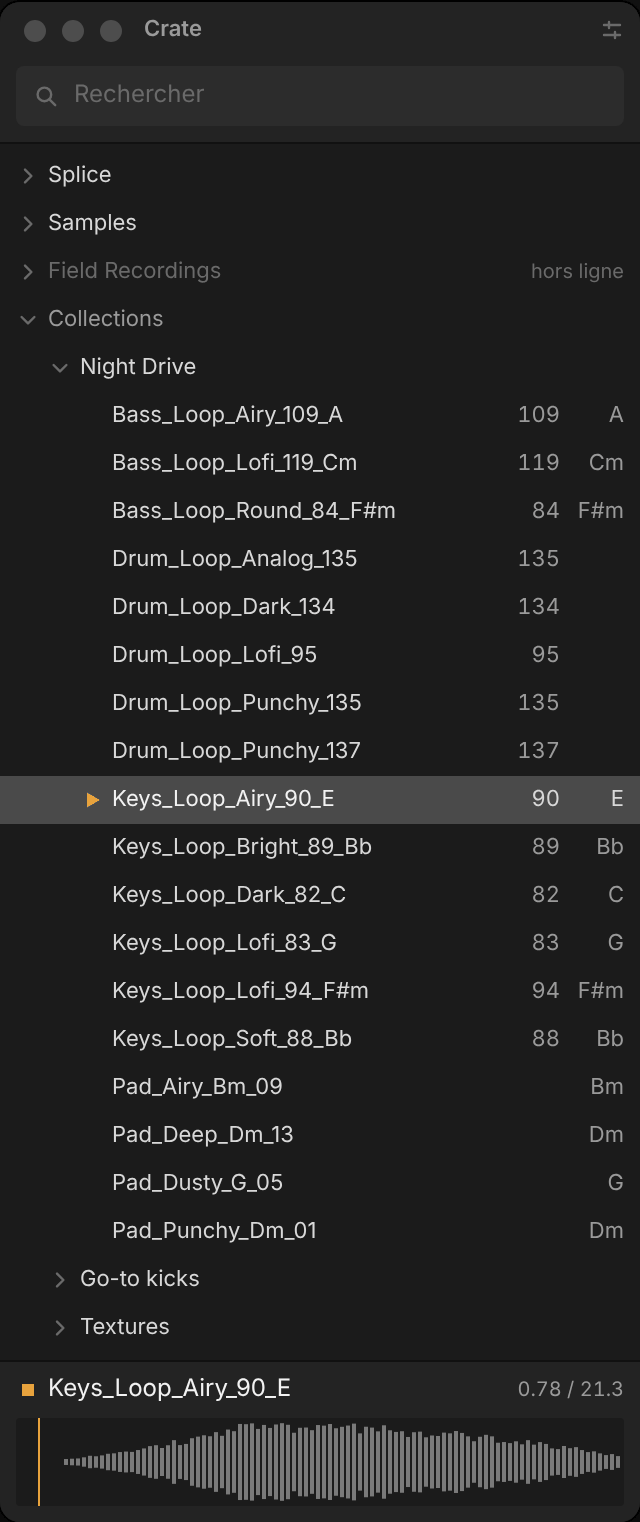
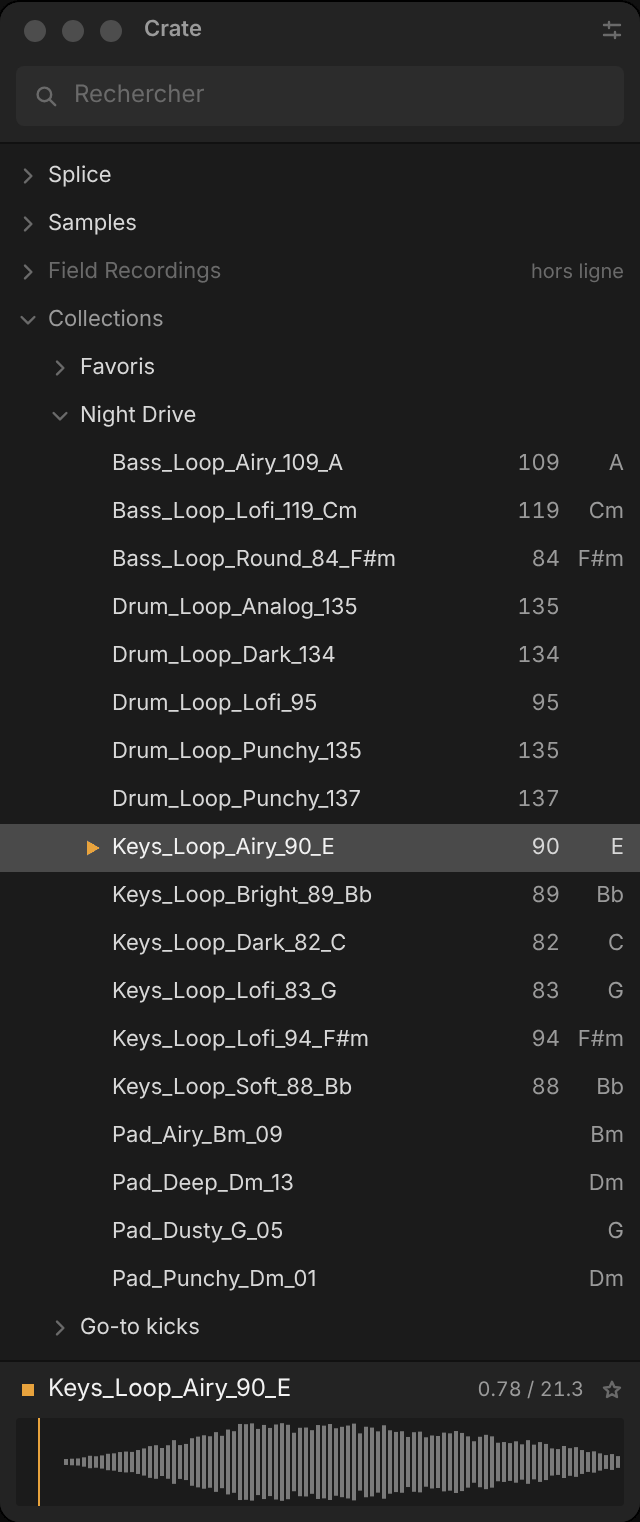
Favoris discrets et plan / prompt mis à jour (v2)
- Favoris de retour sans étoile dans l'arbre : dossier « Favoris » en tête
  des collections, ⌘D, menu contextuel, étoile grise dans le tiroir,
  filtre is:fav, dépôt sur « Favoris »
- Contrat Backend : Sample.fav, setFavorite, nœud "c:fav"
- docs/plan.md : plan à jour (phase 0 faite, une seule vue, contrat tree(),
  budgets de l'arbre) et prompt des phases 1 à 6 réécrit pour un agent
  isolé (décisions dans docs/decisions.md, contrôles avant commit)

Claude-Session: https://claude.ai/code/session_01TPaLJq8a1d4maHTAR6REF2

diff --git a/src/state/app.ts b/src/state/app.ts
@@ -76,6 +76,10 @@ function createAppState() {
     batch(() => {
       setRows(page.rows);
       setMatches(page.matches);
+      // Le tiroir garde le sample courant à jour (favori, tags) s'il est encore visible.
+      const cur = current();
+      const fresh = cur && page.rows.find((r) => r.type === "sample" && r.sample.id === cur.id);
+      if (fresh && fresh.type === "sample") setCurrent(fresh.sample);
     });
   }
 
@@ -276,6 +280,14 @@ function createAppState() {
     await Promise.all([refresh(), reloadLibrary()]);
   }
 
+  // --- favoris : bascule sur la sélection (tous favoris → on retire, sinon on ajoute)
+  async function toggleFavorite(samples = selectedSamples()) {
+    if (!samples.length) return;
+    const all = samples.every((s) => s.fav);
+    await api.setFavorite(samples.map((s) => s.id), !all);
+    await refresh();
+  }
+
   // --- collections
   function openSaveSearch() {
     if (!searchLine()) return;
@@ -325,7 +337,8 @@ function createAppState() {
       setDraggingKey(null);
     });
     if (!ids.length) return;
-    await api.addToCollection(+key.slice(2), ids);
+    if (key === "c:fav") await api.setFavorite(ids, true);
+    else await api.addToCollection(+key.slice(2), ids);
     await refresh();
   }
 
@@ -345,7 +358,7 @@ function createAppState() {
   return {
     view, setView, tagging, setTagging, saving, setSaving, menu, setMenu, renamingKey, setRenamingKey,
     sources, alwaysOnTop, setAlwaysOnTop, themePref, selectedSamples, closeOverlays, openTagging, toggleTag,
-    openSaveSearch, saveSearch, newCollection, renameCollection, deleteCollection, dropOnCollection, removeSource, openMenu,
+    toggleFavorite, openSaveSearch, saveSearch, newCollection, renameCollection, deleteCollection, dropOnCollection, removeSource, openMenu,
     library, rows, visible, matches, chips, draft, expanded, cursor, selection, current, playingId, progress,
     autoPlay, listFocused, dropTarget, draggingKey, empty, scan, theme, width, density, grid, queryLine, searching,
     setAutoPlay, setListFocused, setDropTarget, setDraggingKey, setEmpty, setScan, setVisibleLimit, setTheme,

diff --git a/src/api/mock.ts b/src/api/mock.ts
@@ -45,6 +45,7 @@ function matchToken(s: Sample, t: QueryToken): boolean {
         case "type":
           return s.kind === (t.value === "one-shot" ? "oneshot" : t.value);
         case "is":
+          if (t.value === "fav") return s.fav;
           return t.value === "untagged" ? s.tags.length === 0 : false;
         case "in": {
           const v = t.value.toLowerCase();
@@ -91,7 +92,10 @@ function childNodes(key: NodeKey | null): NodeInfo[] {
   const folderInfo = (f: FolderNode): NodeInfo => ({ key: `f:${f.id}`, name: f.name, kind: "folder", offline: f.offline });
   if (key === null) return [...SOURCES.map(folderInfo), { key: "g:collections", name: "Collections", kind: "group" }];
   if (key === "g:collections")
-    return COLLECTIONS.map((c) => ({ key: `c:${c.id}`, name: c.name, kind: c.kind === "smart" ? "smart" : "collection" }));
+    return [
+      { key: "c:fav", name: "Favoris", kind: "favorites" },
+      ...COLLECTIONS.map((c): NodeInfo => ({ key: `c:${c.id}`, name: c.name, kind: c.kind === "smart" ? "smart" : "collection" })),
+    ];
   if (key.startsWith("f:")) return folders.get(+key.slice(2))?.children.map(folderInfo) ?? [];
   return [];
 }
@@ -101,6 +105,7 @@ function childSamples(key: NodeKey): Sample[] {
     const id = +key.slice(2);
     return SAMPLES.filter((s) => s.folderId === id).sort(byName);
   }
+  if (key === "c:fav") return SAMPLES.filter((s) => s.fav).sort(byName);
   if (key.startsWith("c:")) return collectionSamples(+key.slice(2)).sort(byName);
   return [];
 }
@@ -153,6 +158,13 @@ export const mockBackend: Backend = {
       totalRows: rows.length,
       matches: searching ? SAMPLES.filter(match).length : SAMPLES.length,
     };
+  },
+
+  async setFavorite(ids, fav) {
+    for (const id of ids) {
+      const s = byId.get(id);
+      if (s) s.fav = fav;
+    }
   },
 
   async addTag(ids, tag) {

diff --git a/src/components/PanelShell.tsx b/src/components/PanelShell.tsx
@@ -20,6 +20,11 @@ function menuFor(row: Row): MenuItem[] {
     return [
       { label: app.playingId() === row.sample.id ? "Stop" : "Lire", shortcut: "Espace", action: () => app.togglePlay(), disabled: row.sample.missing },
       { label: n > 1 ? `Taguer ${n} samples…` : "Taguer…", shortcut: "T", action: () => app.openTagging() },
+      {
+        label: app.selectedSamples().every((s) => s.fav) ? "Retirer des favoris" : "Ajouter aux favoris",
+        shortcut: "⌘D",
+        action: () => app.toggleFavorite(),
+      },
       { type: "separator" },
       { type: "header", label: "Ajouter à" },
       ...manual.map((c): MenuItem => ({ label: c.name, action: () => app.dropOnCollection(`c:${c.id}`) })),
@@ -34,6 +39,8 @@ function menuFor(row: Row): MenuItem[] {
       return row.parent === null
         ? [toggle, { label: "Révéler dans le Finder" }, { type: "separator" }, { label: "Retirer la source", danger: true, action: () => app.removeSource(+row.key.slice(2)) }]
         : [toggle, { label: "Révéler dans le Finder" }];
+    case "favorites":
+      return [toggle];
     case "group":
       return [toggle, { type: "separator" }, { label: "Nouvelle collection", action: () => app.newCollection() }];
     default:
@@ -125,6 +132,7 @@ export function PanelShell(props: { searchRef?: (el: HTMLInputElement) => void; 
             progress={app.progress()}
             themeKey={app.theme()}
             onTogglePlay={() => app.togglePlay()}
+            onToggleFav={() => app.current() && app.toggleFavorite([app.current()!])}
           />
           <Show when={app.tagging()}>
             <TagPopover

diff --git a/src/components/Icon.tsx b/src/components/Icon.tsx
@@ -1,7 +1,7 @@
 // Jeu d'icônes volontairement minimal : 12×12, trait 1.2, couleur = currentColor.
 import type { JSX } from "solid-js";
 
-export type IconName = "search" | "chevron" | "back" | "play" | "stop" | "close" | "plus" | "settings" | "loop" | "check" | "minus";
+export type IconName = "search" | "chevron" | "back" | "play" | "stop" | "close" | "plus" | "settings" | "loop" | "check" | "minus" | "star" | "star-fill";
 
 // Fonctions et non éléments : un nœud DOM ne peut être monté qu'à un seul endroit.
 const PATHS: Record<IconName, () => JSX.Element> = {
@@ -15,6 +15,8 @@ const PATHS: Record<IconName, () => JSX.Element> = {
   back: () => <path d="M7.5 2.8 4.3 6l3.2 3.2" />,
   check: () => <path d="M2.8 6.2 5 8.4l4.2-4.8" />,
   minus: () => <path d="M3 6h6" />,
+  star: () => <path d="M6 1.9 7.2 4.5l2.8.3-2.1 1.9.6 2.8L6 8.1 3.5 9.5l.6-2.8L2 4.8l2.8-.3z" />,
+  "star-fill": () => <path d="M6 1.9 7.2 4.5l2.8.3-2.1 1.9.6 2.8L6 8.1 3.5 9.5l.6-2.8L2 4.8l2.8-.3z" fill="currentColor" />,
   play: () => <path d="M3.5 2.2v7.6L9.8 6z" fill="currentColor" stroke="none" />,
   stop: () => <rect x="3" y="3" width="6" height="6" fill="currentColor" stroke="none" />,
   close: () => <path d="M3.2 3.2l5.6 5.6M8.8 3.2 3.2 8.8" />,

diff --git a/src/api/types.ts b/src/api/types.ts
@@ -21,6 +21,7 @@ export interface Sample {
   kind: SampleKind;
   tags: string[];
   missing: boolean;
+  fav: boolean;
   peaks: number[]; // 256 valeurs 0..1
 }
 
@@ -38,11 +39,11 @@ export interface Collection {
 
 /**
  * Nœud de l'arbre. Clés stables :
- * "f:<id>" dossier source · "g:collections" groupe des collections · "c:<id>" collection.
+ * "f:<id>" dossier source · "g:collections" groupe des collections · "c:fav" favoris · "c:<id>" collection.
  */
 export type NodeKey = string;
 
-export type NodeKind = "folder" | "group" | "collection" | "smart";
+export type NodeKind = "folder" | "group" | "favorites" | "collection" | "smart";
 
 export interface FolderRow {
   type: "node";
@@ -97,6 +98,7 @@ export interface Backend {
   library(): Promise<Library>;
   sources(): Promise<Source[]>;
   tree(req: TreeRequest): Promise<TreePage>;
+  setFavorite(ids: SampleId[], fav: boolean): Promise<void>;
   addTag(ids: SampleId[], tag: string): Promise<void>;
   removeTag(ids: SampleId[], tag: string): Promise<void>;
   /** Collection manuelle si `query` est absent, smart sinon (la ligne de recherche brute). */

diff --git a/src/components/TreeRow.stories.tsx b/src/components/TreeRow.stories.tsx
@@ -7,7 +7,7 @@ const meta = {
   component: TreeRow,
   args: { kind: "folder", label: "Drums", depth: 0 },
   argTypes: {
-    kind: { control: "inline-radio", options: ["folder", "group", "collection", "smart", "sample"] },
+    kind: { control: "inline-radio", options: ["folder", "group", "favorites", "collection", "smart", "sample"] },
     depth: { control: { type: "range", min: 0, max: 4 } },
     progress: { control: { type: "range", min: 0, max: 1, step: 0.01 } },
   },
@@ -48,6 +48,7 @@ export const Arbre: Story = {
       <TreeRow kind="sample" label={kick.name} depth={2} />
       <TreeRow kind="folder" label="Field Recordings" depth={0} offline />
       <TreeRow kind="group" label="Collections" depth={0} open />
+      <TreeRow kind="favorites" label="Favoris" depth={1} />
       <TreeRow kind="collection" label="Night Drive" depth={1} />
       <TreeRow kind="smart" label="Loops en Am" depth={1} />
     </div>

diff --git a/src/components/PreviewDrawer.tsx b/src/components/PreviewDrawer.tsx
@@ -11,6 +11,7 @@ export function PreviewDrawer(props: {
   progress: number;
   themeKey?: string;
   onTogglePlay?: () => void;
+  onToggleFav?: () => void;
 }) {
   const s = () => props.sample;
   const time = () => {
@@ -33,6 +34,15 @@ export function PreviewDrawer(props: {
           {s() ? s()!.name : "Aucun sample"}
         </span>
         <span class="cr-drawer__time">{time()}</span>
+        {/* Favori : discret, gris, seulement ici (jamais dans les lignes de l'arbre). */}
+        <Show when={s()}>
+          <IconButton
+            icon={s()!.fav ? "star-fill" : "star"}
+            label={s()!.fav ? "Retirer des favoris (⌘D)" : "Ajouter aux favoris (⌘D)"}
+            active={s()!.fav}
+            onClick={() => props.onToggleFav?.()}
+          />
+        </Show>
       </div>
       <div class="cr-drawer__wave cr-wave">
         <Show when={s() && !s()!.missing}>

diff --git a/src/mock/generate.ts b/src/mock/generate.ts
@@ -218,6 +218,7 @@ function makeSamples(): Sample[] {
         kind: cat.kind,
         tags: [...tags].sort(),
         missing: false,
+        fav: false,
         peaks: peaksFor(cat.shape, beats),
       });
     }
@@ -226,6 +227,9 @@ function makeSamples(): Sample[] {
 }
 
 export const SAMPLES: Sample[] = makeSamples();
+
+// Favoris : sous-ensemble fixe (sans tirage, pour ne pas décaler la graine).
+for (const s of SAMPLES) s.fav = s.id % 11 === 0;
 
 // Nombre de samples par dossier (cumulé vers les parents).
 (function count(nodes: FolderNode[]): void {

diff --git a/src/components/IconButton.stories.tsx b/src/components/IconButton.stories.tsx
@@ -6,7 +6,7 @@ const meta = {
   component: IconButton,
   args: { icon: "play", label: "Lire" },
   argTypes: {
-    icon: { control: "select", options: ["search", "chevron", "back", "play", "stop", "close", "plus", "settings", "loop", "check", "minus"] },
+    icon: { control: "select", options: ["search", "chevron", "back", "play", "stop", "close", "plus", "settings", "loop", "check", "minus", "star", "star-fill"] },
   },
   parameters: { panel: false },
 } satisfies Meta<typeof IconButton>;

diff --git a/src/components/Browser.tsx b/src/components/Browser.tsx
@@ -28,7 +28,7 @@ export function Browser() {
             if (app.cursor() === row.key) el?.scrollIntoView({ block: "nearest" });
           });
           if (row.type === "node") {
-            const manual = row.kind === "collection";
+            const manual = row.kind === "collection" || row.kind === "favorites"; // cibles de dépôt
             return (
               <TreeRow
                 ref={(r) => (el = r)}

diff --git a/src/components/TreeRow.tsx b/src/components/TreeRow.tsx
@@ -3,7 +3,7 @@ import { Show, onMount } from "solid-js";
 import { Chevron, Icon } from "./Icon";
 import { Waveform } from "./Waveform";
 
-export type TreeRowKind = "folder" | "group" | "collection" | "smart" | "sample";
+export type TreeRowKind = "folder" | "group" | "favorites" | "collection" | "smart" | "sample";
 
 export function TreeRow(props: {
   kind: TreeRowKind;

diff --git a/src/styles/bundle.css b/src/styles/bundle.css
@@ -477,6 +477,11 @@
   margin-right: calc((var(--cr-slot) - var(--cr-icon-btn)) / 2);
 }
 
+/* Bouton favori : son icône s'aligne sur le bord droit de la waveform. */
+.cr-drawer__head > .cr-icon-btn:last-child:not(:first-child) {
+  margin-right: calc((var(--cr-slot) - var(--cr-icon-btn)) / 2);
+}
+
 .cr-drawer[data-empty] .cr-drawer__title {
   color: var(--cr-text-3);
 }
